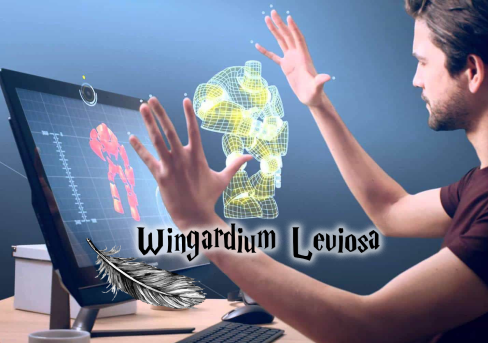
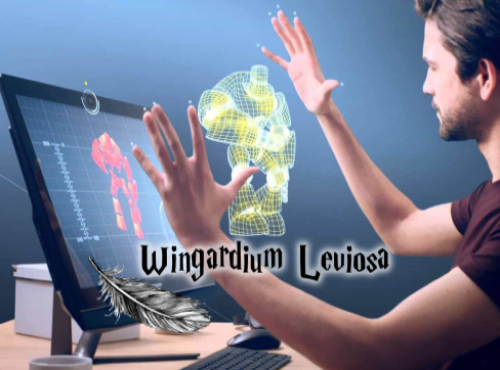
3

diff --git a/index.html b/index.html
@@ -404,11 +404,11 @@
             <li class="project-item" style="background-color: #f3e100">
                 <a href="https://github.com/Smoky-Future/Smoky-Future" rel="noopener" target="_blank">
                     <div class="project-color" style="background-color:#79abee"></div>
-                    <div class="project-visual" style="background: url('/images/portfolio/smokyFutureLandscape.png');"></div>
+                    <div class="project-visual" style="background: url('/images/portfolio/smokyFuture2.png');"></div>
                 </a>
             </li>
             <li class="project-item" style="background-color: #aeeafe">
-                <a href="https://github.com/VedantKhairnar/The-Maze-Runner" rel="noopener" target="_blank">
+                <a href="https://github.com/VedantKhairnar/Wingardium-Leviosa" rel="noopener" target="_blank">
                     <div class="project-color" style="background-color:#ff7221"></div>
                     <div class="project-visual" style="background: url('/images/portfolio/wingardiumLeviosaFinal.png');"></div>
                 </a>
